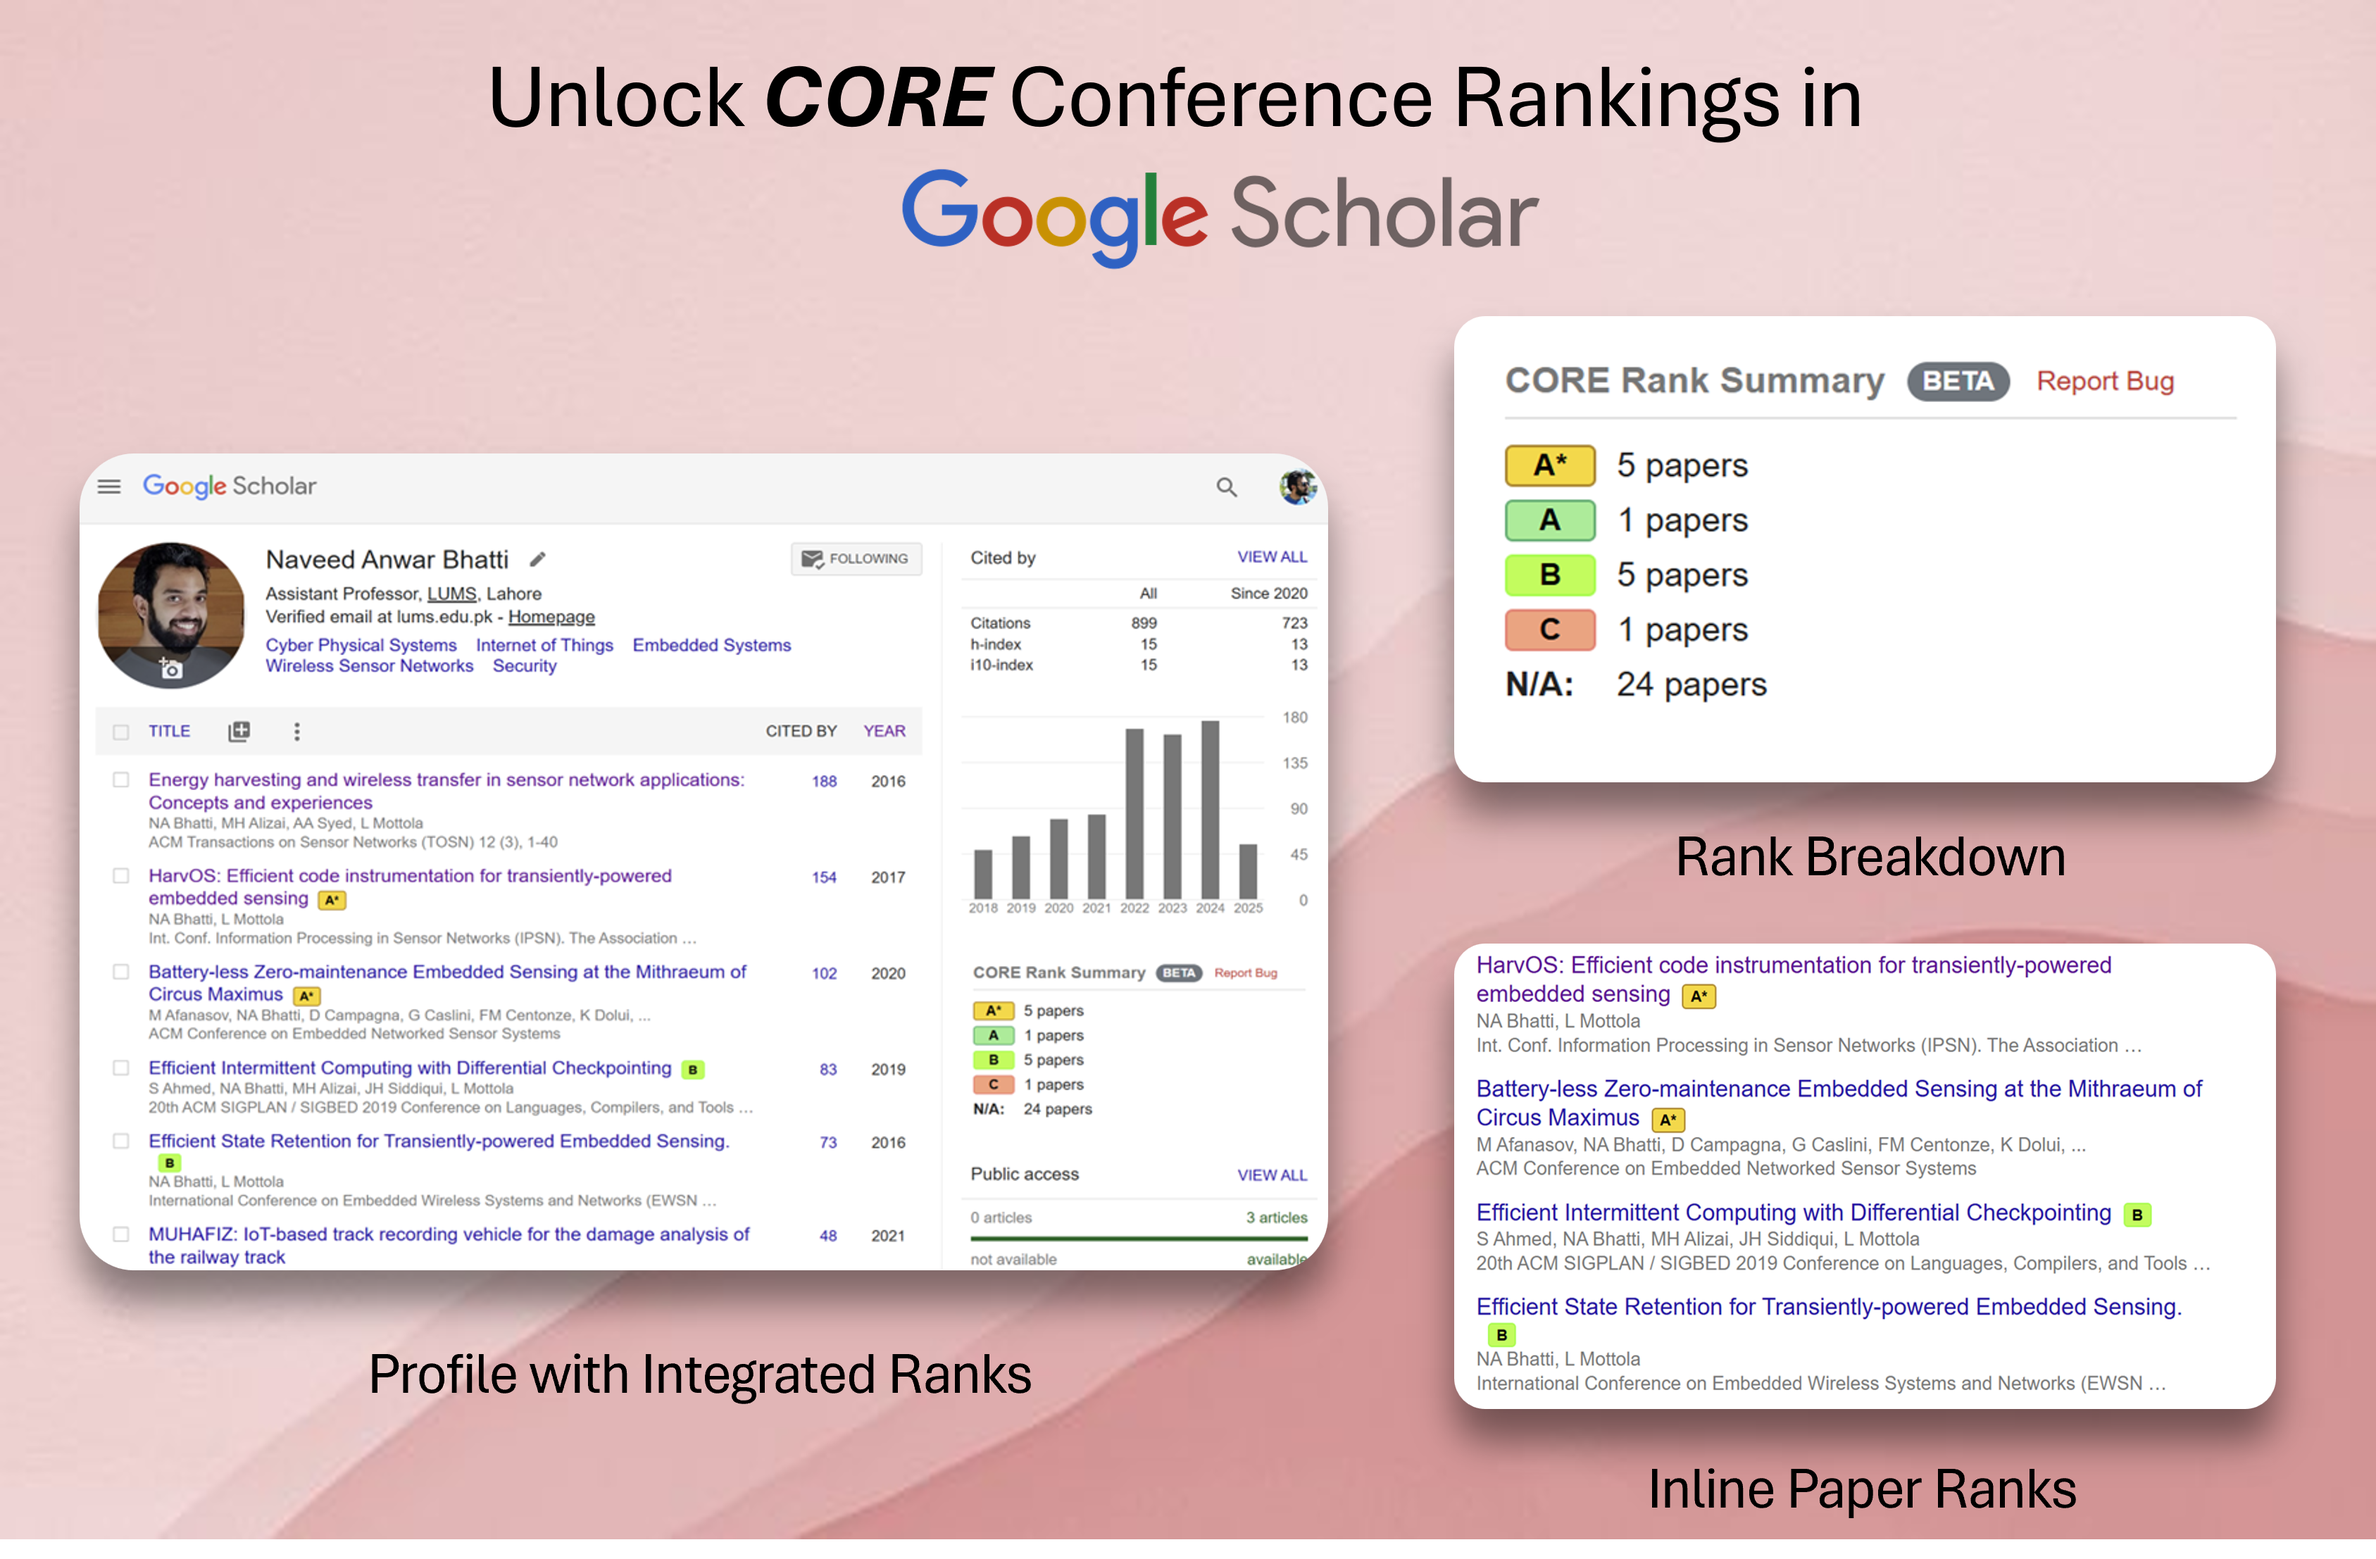
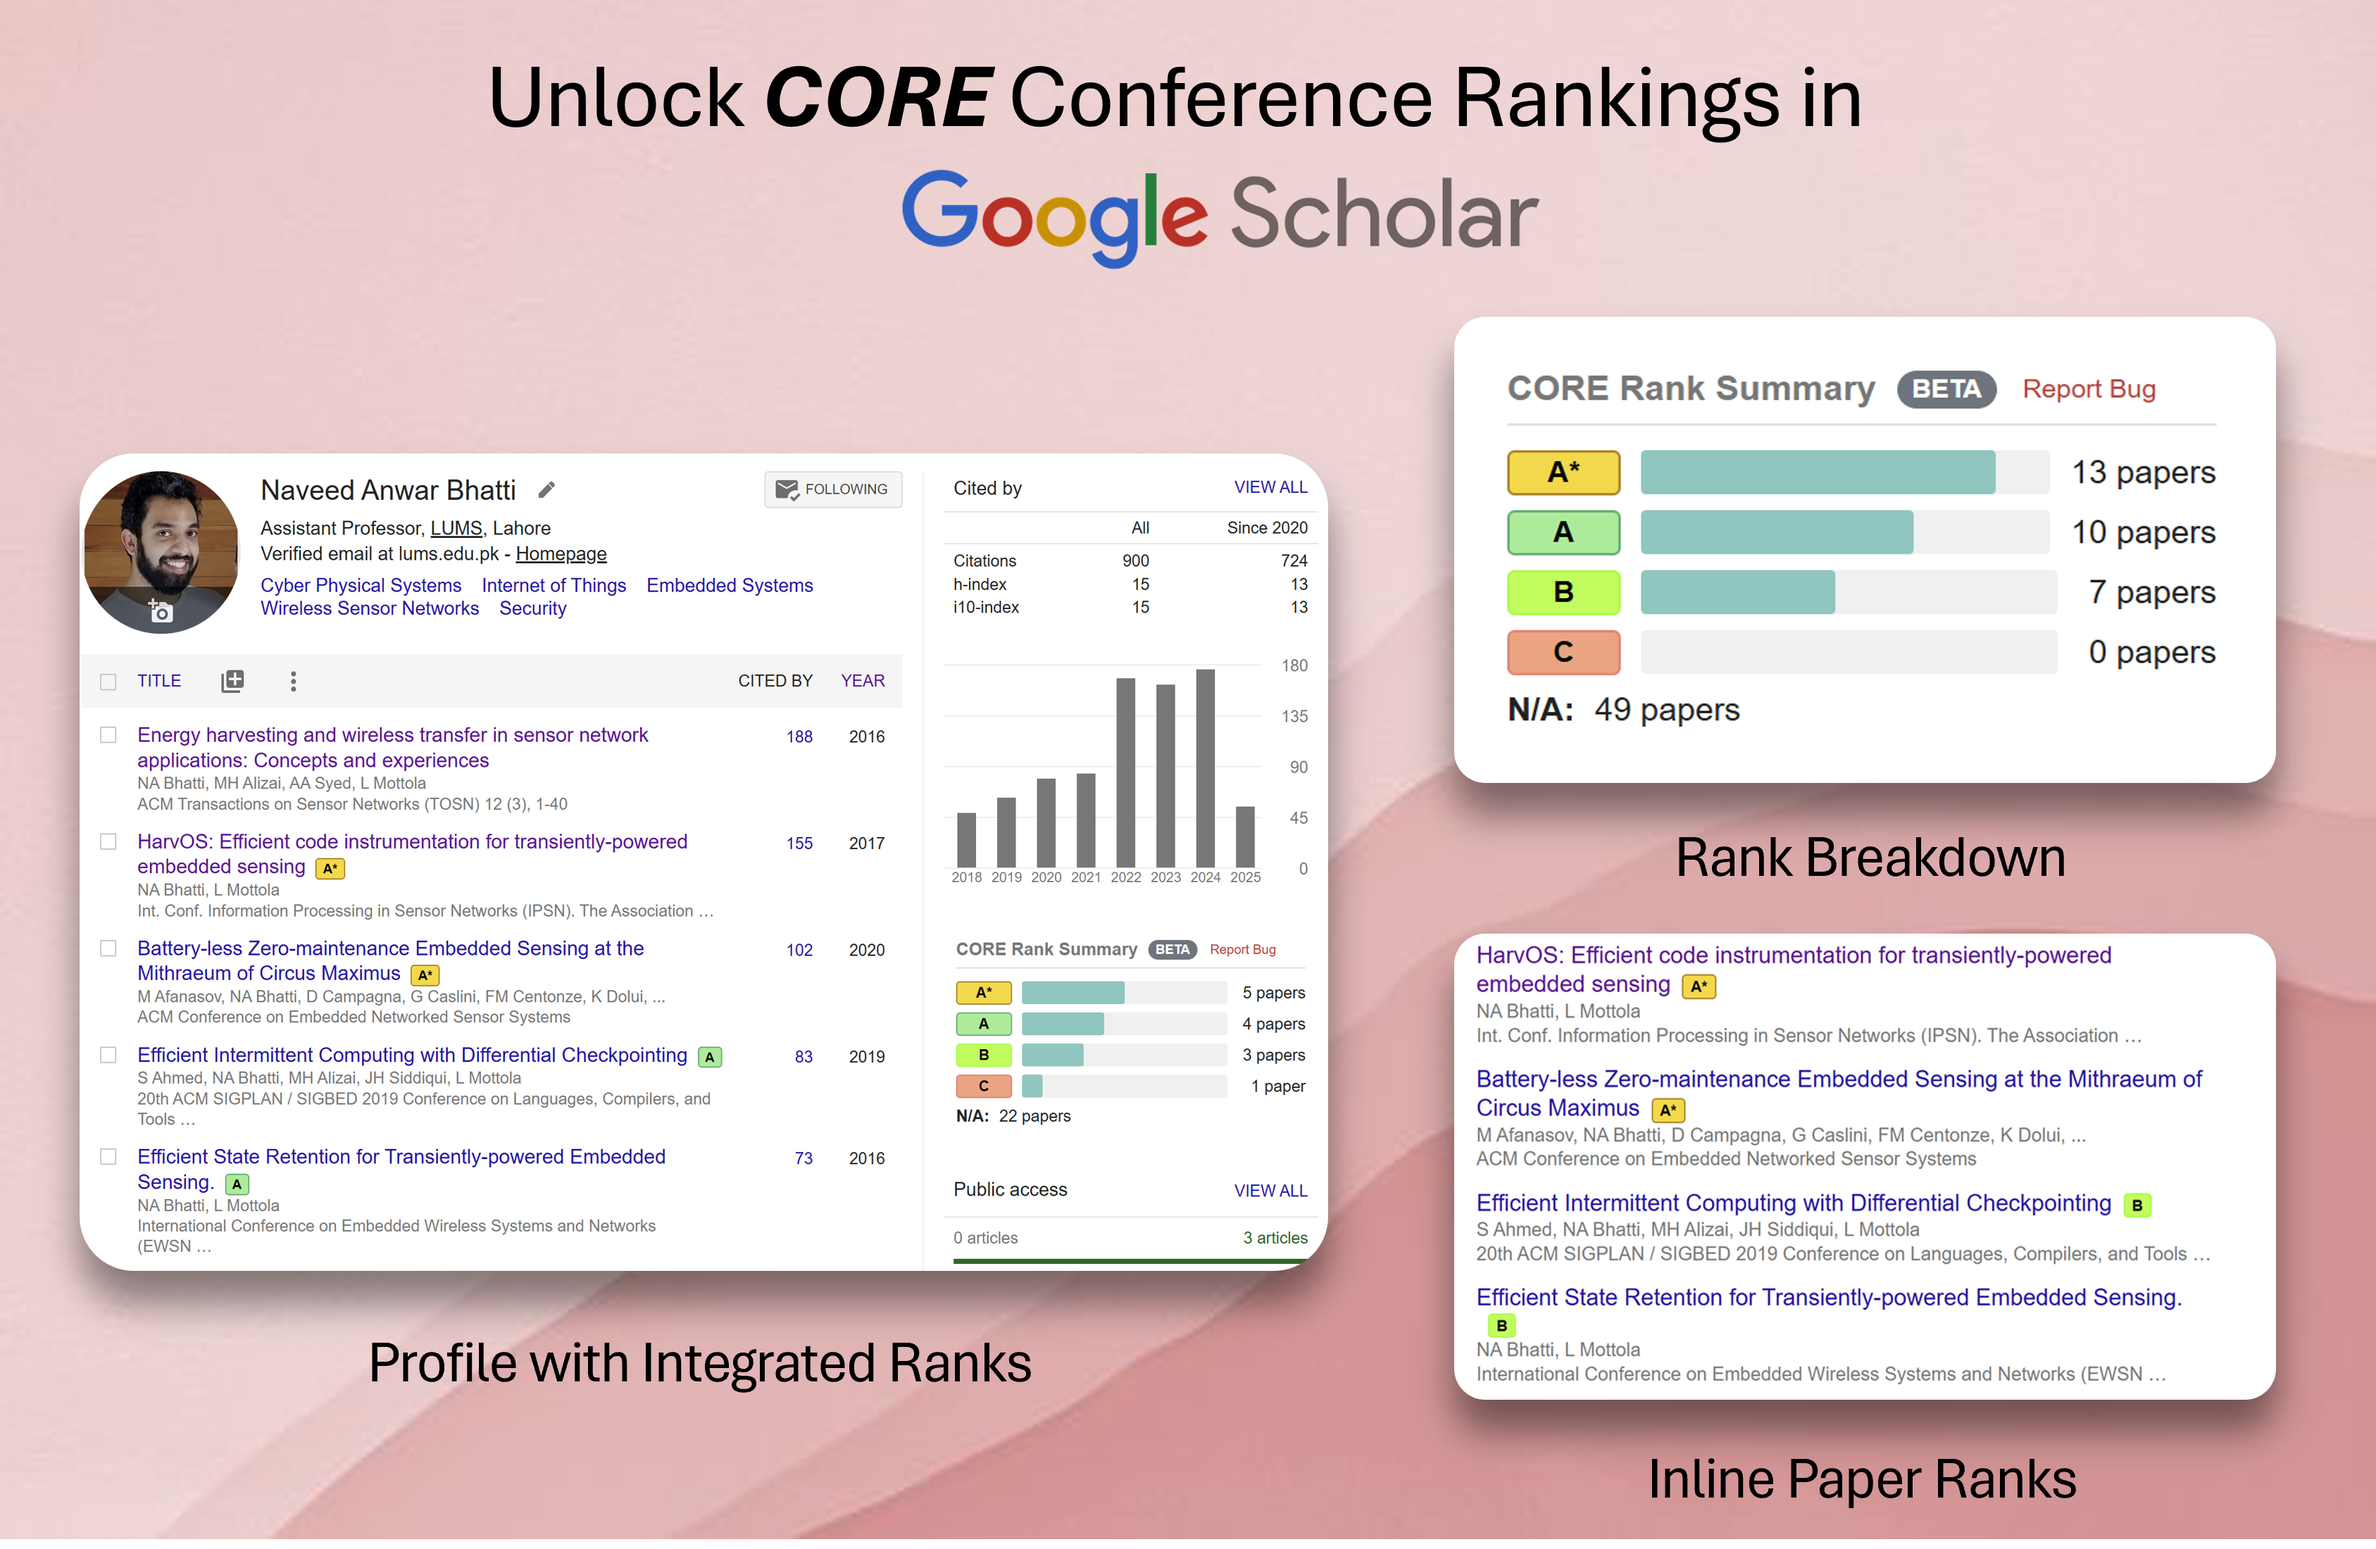
more updates

diff --git a/dist/content.js b/dist/content.js
@@ -533,7 +533,7 @@ function displaySummaryPanel(rankCounts) {
     betaLabel.style.borderRadius = '10px';
     betaLabel.style.verticalAlign = 'middle';
     betaLabel.style.cursor = 'help';
-    betaLabel.setAttribute('title', "Developed by Naveed Anwar Bhatti.\nIt is free and open source.\nWe are currently using CORE2023 rankings only.\nHelp us spot inconsistencies!\nFor any issues, please click on “Report Bug”.");
+    betaLabel.setAttribute('title', "Developed by Naveed Anwar Bhatti.\nIt is free and open source.\nIt uses historical CORE rankings (2014-2023) based on publication year.\nHelp us spot inconsistencies!\nFor any issues, please click on “Report Bug”.");
     headerDiv.appendChild(betaLabel);
     const reportBugLink = document.createElement('a');
     reportBugLink.href = "https://forms.office.com/r/PbSzWaQmpJ";
@@ -547,50 +547,101 @@ function displaySummaryPanel(rankCounts) {
     reportBugLink.textContent = 'Report Bug';
     reportBugLink.setAttribute('title', 'Report a bug or inconsistency (opens new tab)');
     headerDiv.appendChild(reportBugLink);
-    let content = headerDiv.outerHTML;
-    content += '<ul style="list-style: none; padding: 0; margin:0; margin-top: 8px;">';
+    panel.appendChild(headerDiv); // Append header first
+    const list = document.createElement('ul');
+    list.style.listStyle = 'none';
+    list.style.padding = '0';
+    list.style.margin = '8px 0 0 0';
+    // --- Logic for Horizontal Bar Chart ---
+    const ranksForChart = ["A*", "A", "B", "C"];
+    let maxCountForScale = 10; // Default max scale
+    ranksForChart.forEach(rank => {
+        if ((rankCounts[rank] || 0) > maxCountForScale) {
+            maxCountForScale = rankCounts[rank] || 0;
+        }
+    });
+    // If all counts are low, ensure scale is at least 10, or a bit more than max if max is small
+    if (maxCountForScale < 10)
+        maxCountForScale = 10;
+    else if (maxCountForScale > 10 && maxCountForScale < 15)
+        maxCountForScale = Math.ceil(maxCountForScale / 5) * 5; // round up to next 5 if slightly over 10
+    const barChartColor = '#76C7C0'; // Single color for all bars (same as progress bar)
+    const barHeight = '18px'; // Height of each bar row
     for (const rank of ["A*", "A", "B", "C", "N/A"]) {
         const count = rankCounts[rank] || 0;
-        let rankDisplay = rank;
+        const listItem = document.createElement('li');
+        listItem.style.fontSize = '13px';
+        listItem.style.marginBottom = '6px'; // Increased margin for bars
+        listItem.style.display = 'flex';
+        listItem.style.alignItems = 'center';
+        // Rank Badge/Label
+        const rankLabelSpan = document.createElement('span');
+        rankLabelSpan.style.display = 'inline-block';
+        rankLabelSpan.style.fontWeight = 'bold';
+        rankLabelSpan.style.marginRight = '8px';
+        rankLabelSpan.style.width = '35px'; // Fixed width for rank labels (A*, A, B, C, N/A:)
         if (VALID_RANKS.includes(rank)) {
-            const badgeSpan = document.createElement('span');
-            badgeSpan.textContent = rank;
-            badgeSpan.style.display = 'inline-block';
-            badgeSpan.style.padding = '0px 4px';
-            badgeSpan.style.marginRight = '8px';
-            badgeSpan.style.fontSize = '0.9em';
-            badgeSpan.style.fontWeight = 'bold';
-            badgeSpan.style.color = '#000000';
-            badgeSpan.style.border = '1px solid #ccc';
-            badgeSpan.style.borderRadius = '3px';
-            badgeSpan.style.minWidth = '25px';
-            badgeSpan.style.textAlign = 'center';
+            rankLabelSpan.textContent = rank;
+            rankLabelSpan.style.padding = '1px 4px'; // Adjusted padding
+            rankLabelSpan.style.fontSize = '0.9em';
+            rankLabelSpan.style.color = '#000000';
+            rankLabelSpan.style.border = '1px solid #ccc';
+            rankLabelSpan.style.borderRadius = '3px';
+            rankLabelSpan.style.textAlign = 'center';
+            // Apply background colors to rank badges
             switch (rank) {
                 case "A*":
-                    badgeSpan.style.backgroundColor = '#FFD700';
-                    badgeSpan.style.borderColor = '#B8860B';
+                    rankLabelSpan.style.backgroundColor = '#FFD700';
+                    rankLabelSpan.style.borderColor = '#B8860B';
                     break;
                 case "A":
-                    badgeSpan.style.backgroundColor = '#90EE90';
-                    badgeSpan.style.borderColor = '#3CB371';
+                    rankLabelSpan.style.backgroundColor = '#90EE90';
+                    rankLabelSpan.style.borderColor = '#3CB371';
                     break;
                 case "B":
-                    badgeSpan.style.backgroundColor = '#ADFF2F';
-                    badgeSpan.style.borderColor = '#7FFF00';
+                    rankLabelSpan.style.backgroundColor = '#ADFF2F';
+                    rankLabelSpan.style.borderColor = '#7FFF00';
                     break;
                 case "C":
-                    badgeSpan.style.backgroundColor = '#FFA07A';
-                    badgeSpan.style.borderColor = '#FA8072';
+                    rankLabelSpan.style.backgroundColor = '#FFA07A';
+                    rankLabelSpan.style.borderColor = '#FA8072';
                     break;
             }
-            rankDisplay = badgeSpan.outerHTML;
         }
-        else {
-            rankDisplay = `<span style="display:inline-block; width: 30px; font-weight:bold; margin-right: 8px;">${rank}:</span>`;
+        else { // For N/A
+            rankLabelSpan.textContent = `${rank}:`;
+            rankLabelSpan.style.width = 'auto'; // Let N/A: take its natural width
         }
-        content += `<li style="font-size:13px; margin-bottom: 5px; display: flex; align-items: center;">${rankDisplay}<span style="margin-left: ${VALID_RANKS.includes(rank) ? '0' : '5px'};">${count} papers</span></li>`;
+        listItem.appendChild(rankLabelSpan);
+        // Horizontal Bar (only for A*, A, B, C)
+        if (VALID_RANKS.includes(rank)) {
+            const barContainer = document.createElement('div');
+            barContainer.style.flexGrow = '1';
+            barContainer.style.backgroundColor = '#f0f0f0'; // Light grey background for the bar track
+            barContainer.style.height = barHeight;
+            barContainer.style.borderRadius = '2px';
+            barContainer.style.marginRight = '8px';
+            barContainer.style.position = 'relative'; // For text overlay if needed
+            const barFill = document.createElement('div');
+            const percentageWidth = maxCountForScale > 0 ? (count / maxCountForScale) * 100 : 0;
+            barFill.style.width = `${Math.min(percentageWidth, 100)}%`; // Cap at 100%
+            barFill.style.height = '100%';
+            barFill.style.backgroundColor = barChartColor;
+            barFill.style.borderRadius = '2px';
+            barFill.style.transition = 'width 0.5s ease-out';
+            barContainer.appendChild(barFill);
+            listItem.appendChild(barContainer);
+        }
+        // Count Text
+        const countTextSpan = document.createElement('span');
+        countTextSpan.textContent = `${count} paper${count === 1 ? '' : 's'}`;
+        countTextSpan.style.minWidth = '55px'; // Ensure space for "XX papers"
+        countTextSpan.style.textAlign = 'right';
+        listItem.appendChild(countTextSpan);
+        list.appendChild(listItem);
     }
-    panel.innerHTML = content + '</ul>';
+    panel.appendChild(list);
+    // Injection logic (same as before)
     if (parentOfStatus && existingStatusElement) {
         parentOfStatus.replaceChild(panel, existingStatusElement);
     }
